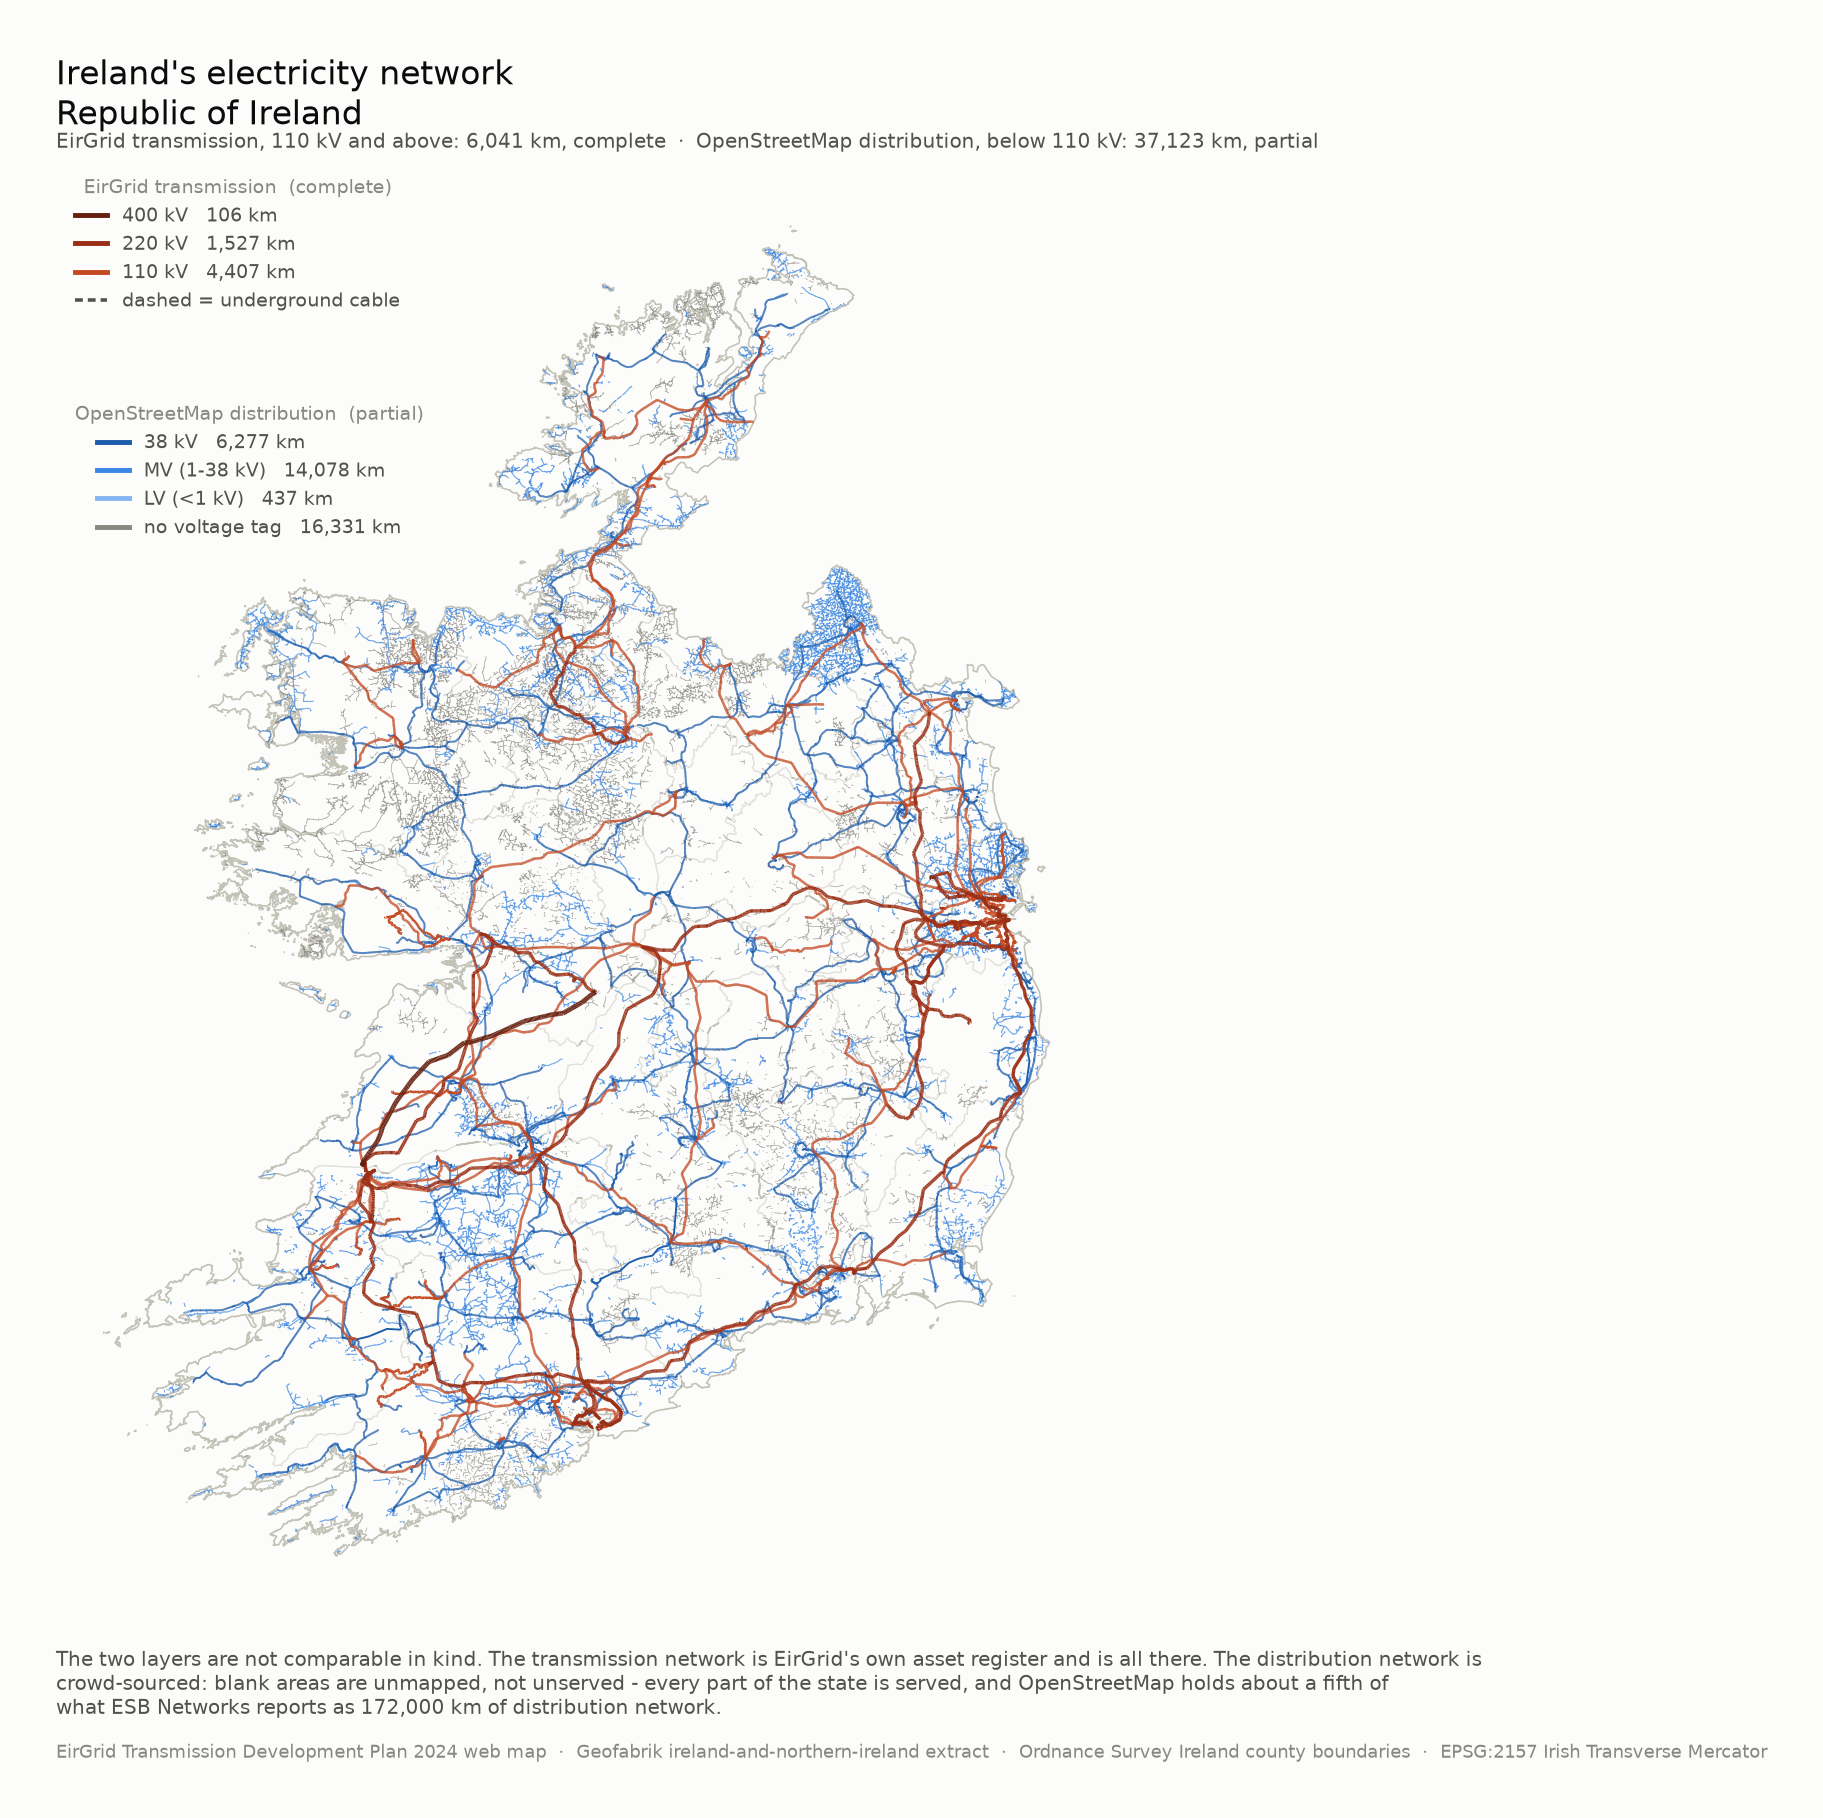
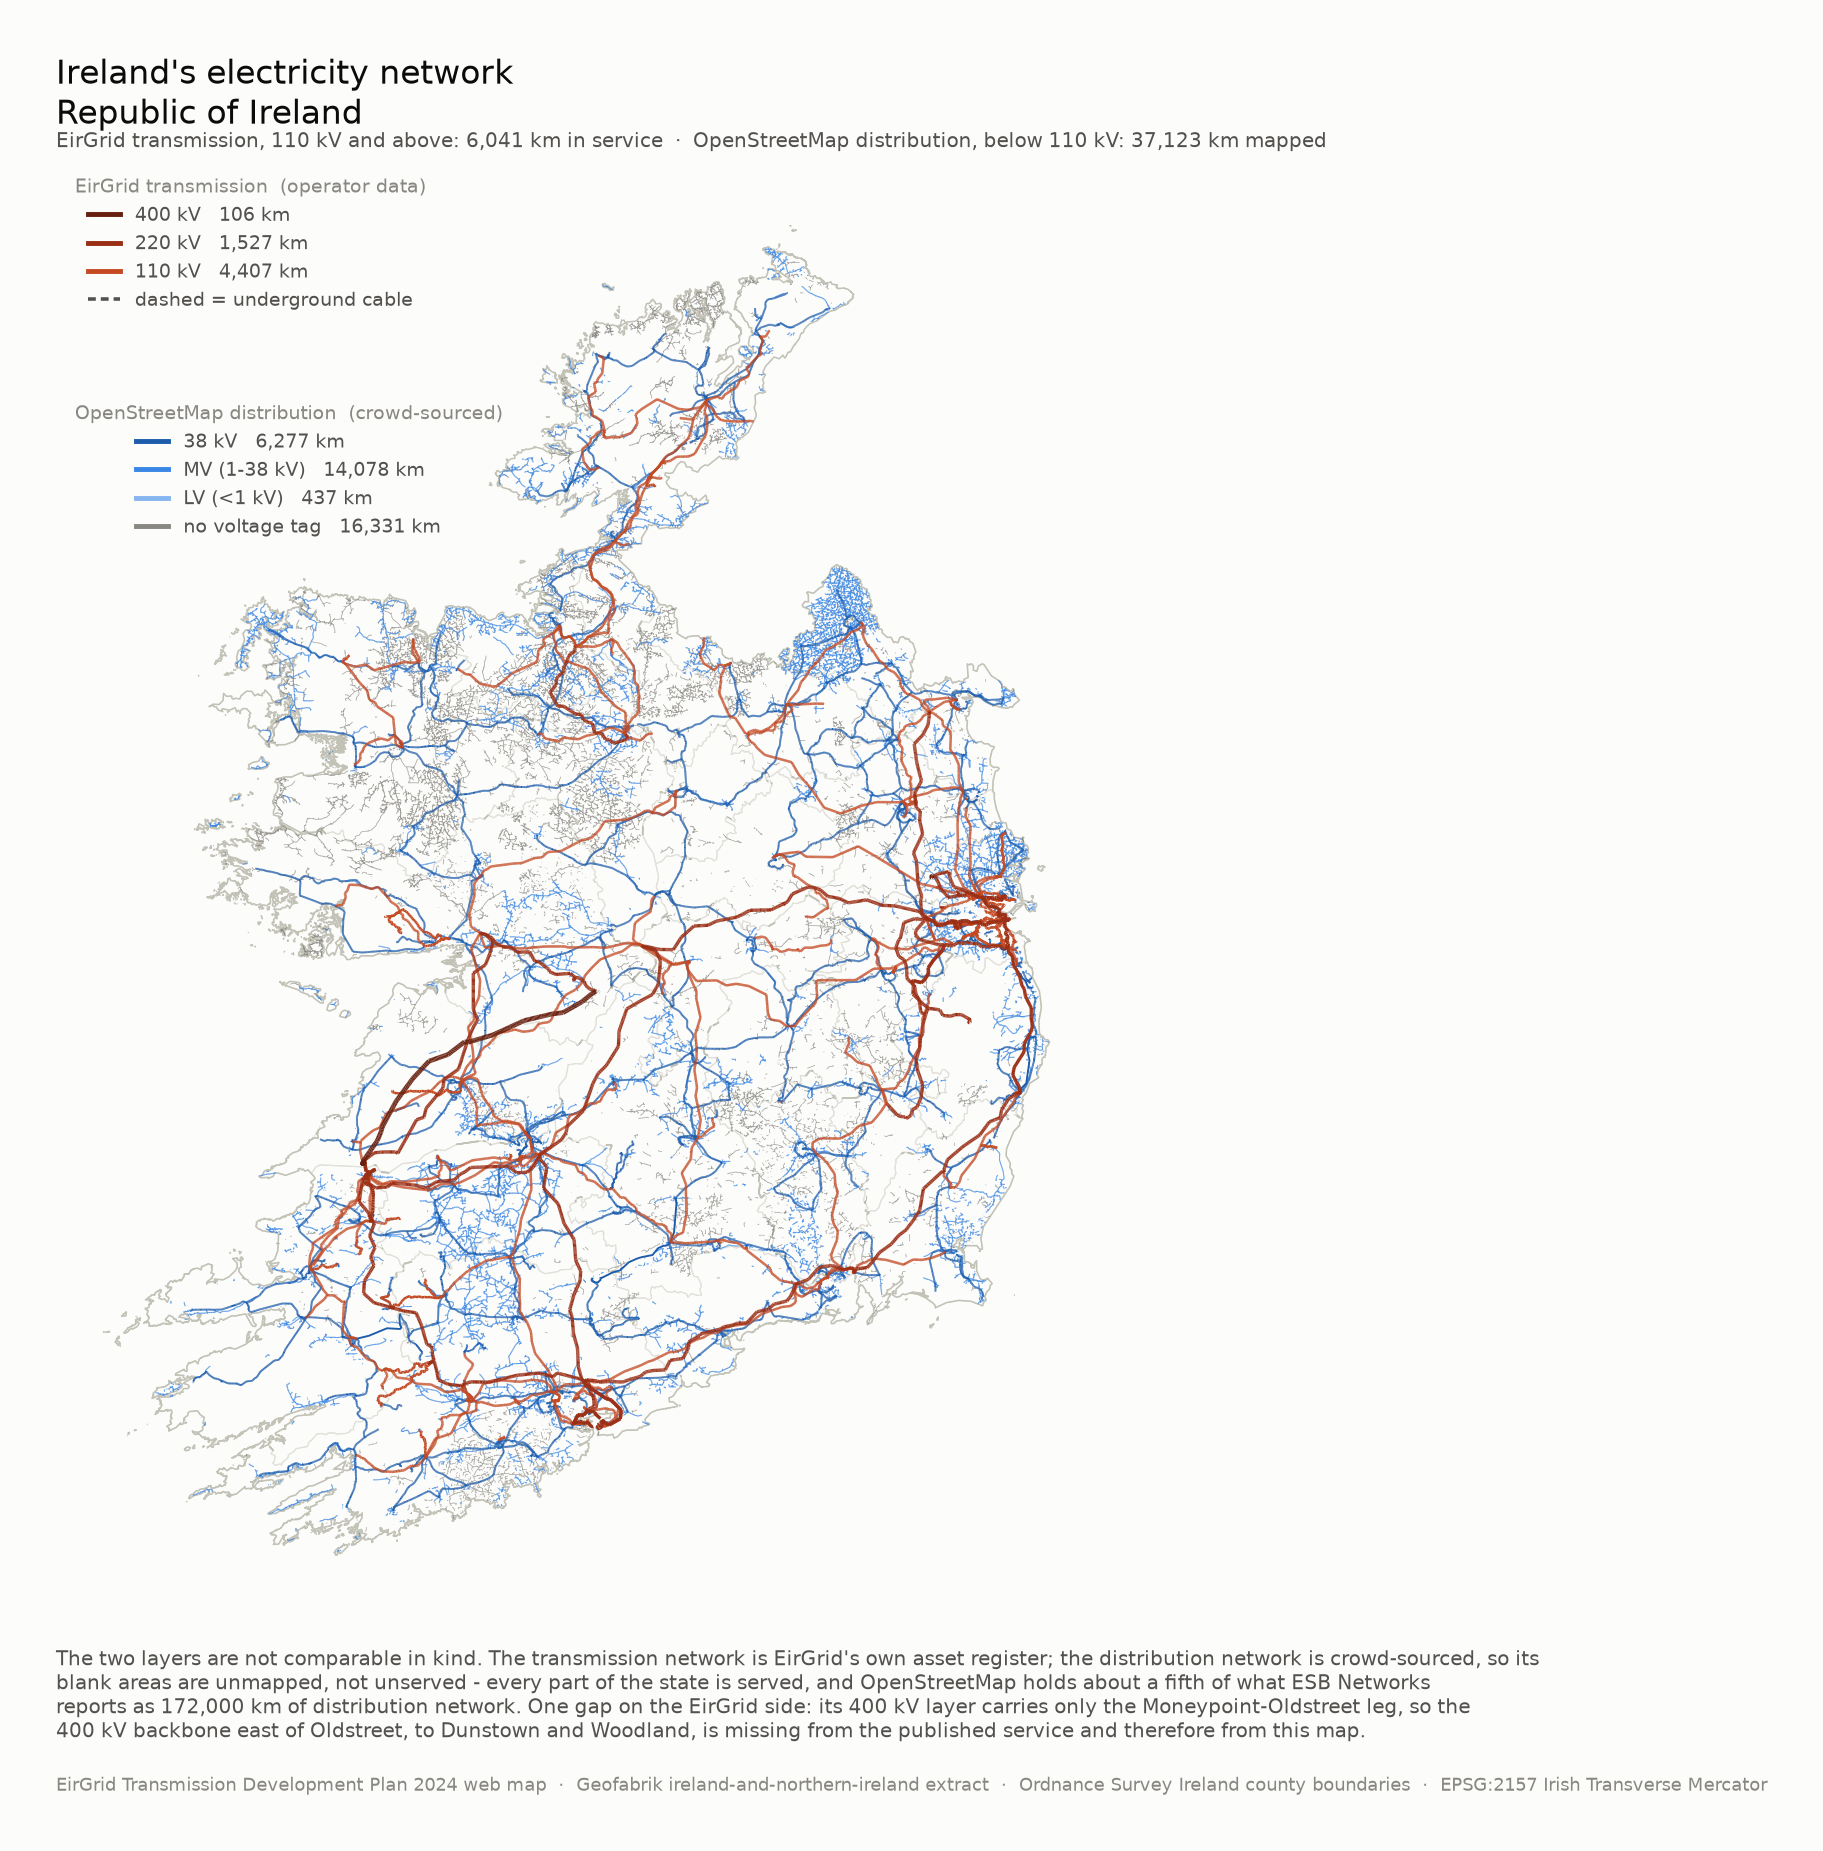
Report the 400 kV gap in EirGrid's published layer
The aggregate agreement (6,122 km measured against EirGrid's published
6,500 km) hides an incomplete layer. EirGrid's 400 kV overhead layer holds a
single circuit, MONEYPOINT-OLDSTREET, 103 km spanning longitude -9.42 to
-8.27 - the western leg only. Ireland's 400 kV network continues east from
Oldstreet to Dunstown and on to Woodland, and no circuit for those legs is in
the service at any voltage.

So the earlier claim that this layer is simply complete was too strong. The
110 kV and 220 kV layers can be taken as the register; the 400 kV layer
cannot be taken as the whole 400 kV backbone. eirgrid.py summary now prints a
warning when the 400 kV overhead layer holds one circuit or fewer, the map
caption states the gap, and the README and FINDINGS say so rather than
letting the headline total speak for the parts.

Claude-Session: https://claude.ai/code/session_01G9Fn6MTQk4trbLzfJTnTh1

diff --git a/plots.py b/plots.py
@@ -326,14 +326,14 @@ def plot_national(with_eirgrid: bool = True) -> None:
     first = ax.legend(handles=tx_handles, loc="upper left",
                       bbox_to_anchor=(0.0, 1.0), fontsize=8.5, frameon=False,
                       labelcolor=INK_SECONDARY,
-                      title="EirGrid transmission  (complete)",
+                      title="EirGrid transmission  (operator data)",
                       title_fontsize=8.5,
                       handlelength=1.7, borderpad=0.5, labelspacing=0.5)
     first.get_title().set_color(INK_MUTED)
     second = ax.legend(handles=dist_handles[::-1], loc="upper left",
                        bbox_to_anchor=(0.0, 0.845), fontsize=8.5,
                        frameon=False, labelcolor=INK_SECONDARY,
-                       title="OpenStreetMap distribution  (partial)",
+                       title="OpenStreetMap distribution  (crowd-sourced)",
                        title_fontsize=8.5,
                        handlelength=1.7, borderpad=0.5, labelspacing=0.5)
     second.get_title().set_color(INK_MUTED)
@@ -344,21 +344,24 @@ def plot_national(with_eirgrid: bool = True) -> None:
     ax.set_title("Ireland's electricity network\nRepublic of Ireland",
                  fontsize=15, color=INK, loc="left", pad=16)
     ax.text(0.0, 1.005,
-            f"EirGrid transmission, 110 kV and above: {tx_km:,.0f} km, "
-            "complete  ·  "
-            f"OpenStreetMap distribution, below 110 kV: {dist_km:,.0f} km, "
-            "partial",
+            f"EirGrid transmission, 110 kV and above: {tx_km:,.0f} km in "
+            "service  ·  "
+            f"OpenStreetMap distribution, below 110 kV: {dist_km:,.0f} km "
+            "mapped",
             transform=ax.transAxes, fontsize=9, color=INK_SECONDARY,
             va="bottom")
     ax.text(0.0, -0.018,
             "The two layers are not comparable in kind. The transmission "
-            "network is EirGrid's own asset register and is all there. The "
-            "distribution network is\ncrowd-sourced: blank areas are unmapped, "
-            "not unserved - every part of the state is served, and "
-            "OpenStreetMap holds about a fifth of\nwhat ESB Networks reports "
-            "as 172,000 km of distribution network.",
+            "network is EirGrid's own asset register; the distribution network "
+            "is crowd-sourced, so its\nblank areas are unmapped, not unserved "
+            "- every part of the state is served, and OpenStreetMap holds "
+            "about a fifth of what ESB Networks\nreports as 172,000 km of "
+            "distribution network. One gap on the EirGrid side: its 400 kV "
+            "layer carries only the Moneypoint-Oldstreet leg, so the\n400 kV "
+            "backbone east of Oldstreet, to Dunstown and Woodland, is missing "
+            "from the published service and therefore from this map.",
             transform=ax.transAxes, fontsize=9, color=INK_SECONDARY, va="top")
-    ax.text(0.0, -0.083,
+    ax.text(0.0, -0.106,
             "EirGrid Transmission Development Plan 2024 web map  ·  "
             "Geofabrik ireland-and-northern-ireland extract  ·  "
             "Ordnance Survey Ireland county boundaries  ·  "

diff --git a/eirgrid.py b/eirgrid.py
@@ -12,6 +12,16 @@ redrawing of it.  The check that it is: summing the geometry gives 5,348 km of
 overhead line and 774 km of cable, 6,122 km in total, against EirGrid's
 published "6,500 km of overhead line and underground cable".
 
+One documented gap, because the aggregate agreement hides it.  The 400 kV
+layer holds a single overhead circuit, MONEYPOINT-OLDSTREET, 103 km spanning
+longitude -9.42 to -8.27 - the western leg only.  Ireland's 400 kV network
+continues east from Oldstreet to Dunstown in Kildare and on to Woodland in
+Meath (EirGrid's own "Dunstown-Moneypoint 400 kV Refurbishment" names the
+full route), and no circuit for those legs exists in this service at any
+voltage.  400 kV is a small share of the total, so this barely moves the
+headline figure, but anything that depends on the 400 kV backbone being whole
+should not use this layer alone.  ``summary`` prints the warning.
+
 The service is native EPSG:2157 - the same Irish Transverse Mercator the
 OpenStreetMap side of this repo uses - so nothing is reprojected.
 
@@ -336,6 +346,19 @@ def run_summary() -> None:
     print("Transmission Development Plan service, so agreement to within a few")
     print("per cent is the check that this is the asset register and not a")
     print("schematic. The national map draws the in-service subset.")
+
+    ohl400 = everything[(everything["kv"] == 400)
+                        & (everything["category"] == "Overhead Line")]
+    circuits = sorted(ohl400["circuit"].dropna().unique())
+    if len(circuits) <= 1:
+        print()
+        print(f"WARNING: the 400 kV overhead layer holds {len(circuits)} circuit "
+              f"({', '.join(circuits) or 'none'}),")
+        print(f"{float(ohl400['length_km'].sum()):,.0f} km. Ireland's 400 kV "
+              "network continues from Oldstreet to Dunstown")
+        print("and Woodland, and those legs are absent from this service. Do not "
+              "treat the")
+        print("400 kV layer as the whole 400 kV backbone.")
 
 
 def main(argv=None) -> None:

diff --git a/README.md b/README.md
@@ -1,8 +1,9 @@
 # Ireland's electricity network, from open data
 
 Can OpenStreetMap stand in for ESB Networks' distribution data in the
-SWIS-100-IE energy model? **Below 38 kV, no. At 38 kV and above, yes.** The measurements behind that verdict, and what they mean for the
-model, are in **[FINDINGS.md](FINDINGS.md)**.
+SWIS-100-IE energy model? **Below 38 kV, no. At 38 kV and above, yes.** The
+measurements behind that verdict, and what they mean for the model, are in
+**[FINDINGS.md](FINDINGS.md)**.
 
 This repo also draws the map that comes out of asking the question — the
 transmission network from EirGrid's own asset register, over the distribution
@@ -11,15 +12,15 @@ network as volunteers have mapped it.
 ![Ireland's electricity network](data/national_network.png)
 
 The two layers on that map are deliberately in different colour families,
-because they are different kinds of claim. The warm lines are what EirGrid
-operates and are all there. The blue lines are what somebody happened to trace
-in OpenStreetMap: blank areas are unmapped, not unserved.
+because they are different kinds of claim. The warm lines come from EirGrid's
+own asset register. The blue lines are what somebody happened to trace in
+OpenStreetMap: blank areas are unmapped, not unserved.
 
 ## Data sources
 
 | Source | Layer | Trusted for |
 |---|---|---|
-| [EirGrid Transmission Development Plan 2024](https://eirgrid-ie.maps.arcgis.com/apps/webappviewer/index.html?id=809889bb04744a3f89fd63499d35d6c1) web map (public ArcGIS service) | 110 / 220 / 400 kV lines, cables and stations | Everything. This is the transmission system operator's own register. |
+| [EirGrid Transmission Development Plan 2024](https://eirgrid-ie.maps.arcgis.com/apps/webappviewer/index.html?id=809889bb04744a3f89fd63499d35d6c1) web map (public ArcGIS service) | 110 / 220 / 400 kV lines, cables and stations | The 110 kV and 220 kV networks. The 400 kV layer is incomplete — see below. |
 | [Geofabrik](https://download.geofabrik.de/europe/ireland-and-northern-ireland.html) `ireland-and-northern-ireland` OSM extract | sub-110 kV lines, poles, transformers, substations | The 38 kV layer. Nothing below it — see FINDINGS.md. |
 | [Ordnance Survey Ireland statutory boundaries](https://services6.arcgis.com/MmUrOQU5v1he9gfS/arcgis/rest/services/Counties_OSi_Ireland/FeatureServer/0) via Esri Ireland | the 26 Republic of Ireland counties | Drawing, and attributing features to counties. |
 
@@ -27,6 +28,16 @@ The EirGrid figure checks out against its publisher: summing the geometry gives
 5,348 km of overhead line and 774 km of underground cable, 6,122 km in total,
 against EirGrid's published "6,500 km of overhead line and underground cable".
 `python eirgrid.py summary` reproduces that.
+
+**One gap the aggregate hides.** The 400 kV layer holds a single overhead
+circuit — `MONEYPOINT-OLDSTREET`, 103 km, spanning longitude −9.42 to −8.27,
+which is the western leg only. Ireland's 400 kV network continues east from
+Oldstreet to Dunstown in Kildare and on to Woodland in Meath; EirGrid's own
+"Dunstown–Moneypoint 400 kV Refurbishment" project names the full route, and
+no circuit for those legs is in this service at any voltage. 400 kV is a small
+share of the total so it barely moves the headline number, but do not use this
+layer alone for anything that needs the 400 kV backbone to be whole.
+`eirgrid.py summary` prints a warning to that effect.
 
 ## Layout
 

diff --git a/FINDINGS.md b/FINDINGS.md
@@ -393,10 +393,20 @@ Transmission layer: EirGrid Transmission Development Plan 2024 public web map
 (ArcGIS feature service, layers 40 / 39 / 38), read in EPSG:2157. 24,952
 overhead line sections, 1,607 cable sections, 161 stations; 5,348 km overhead
 and 774 km cable, against EirGrid's published 6,500 km. This is the
-transmission system operator's own asset register, so unlike the
-OpenStreetMap layers above it is not a coverage question - it is used here as
-the reference the OSM 110 kV+ band can be judged against, and as the backbone
-on the national map.
+transmission system operator's own asset register, so unlike the OpenStreetMap
+layers above it is largely not a coverage question - it is used here as the
+reference the OSM 110 kV+ band can be judged against, and as the backbone on
+the national map.
+
+With one exception the aggregate agreement hides. The 400 kV layer holds a
+single overhead circuit, `MONEYPOINT-OLDSTREET`, 103 km spanning longitude
+-9.42 to -8.27 - the western leg only. The 400 kV network continues from
+Oldstreet to Dunstown and on to Woodland, and no circuit for those legs is
+present in the service at any voltage. So the 110 kV and 220 kV layers can be
+taken as the register; the 400 kV layer cannot be taken as the whole 400 kV
+backbone. For a model that aggregates to regional nodes this matters less than
+it sounds, but it is the one place this dataset should not be trusted
+unqualified.
 
 Reference asset counts: [ESB Networks, "Our
 network"](https://www.esbnetworks.ie/about-us/company/our-network).
